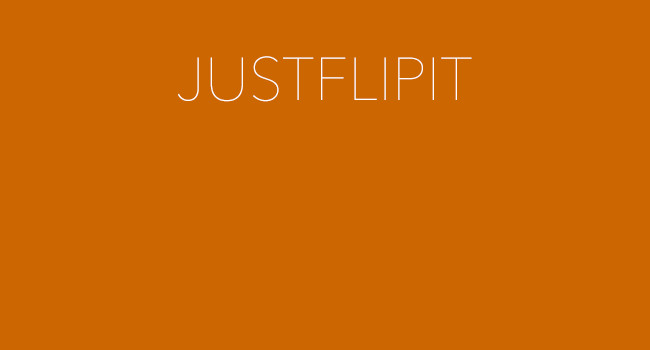
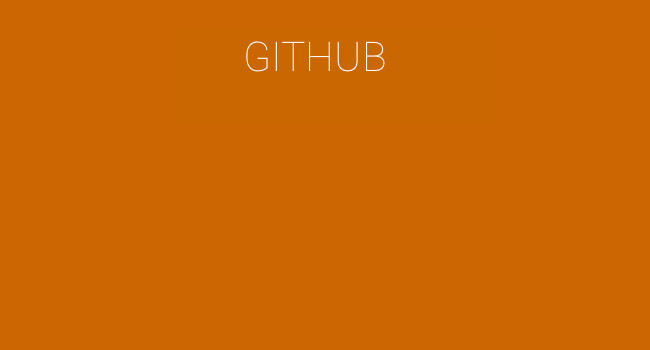
modified:index.html

Changed region(s): [[0.2769, 0.1143, 0.6769, 0.2857], [0.6769, 0.1429, 0.7385, 0.1714]]

diff --git a/index.html b/index.html
@@ -104,7 +104,8 @@
         <div class="row">
             <div class="col-lg-8 col-lg-offset-2 text-center">
                 <h2 class="section-heading">
-                    <a href="https://github.com/SimHub"> <i style="font-size: 2em;color: white" class="fa fa-github tech_icon"></i></a>
+                    <a href="https://github.com/SimHub"> <i style="font-size: 2em;color: white"
+                                                            class="fa fa-github tech_icon"></i></a>
 
                     <!--<img src="img/simon_avatar_o.png" alt="" width="150" class="img-circle">-->
                 </h2>
@@ -145,43 +146,43 @@
 
             <!--TREEHOUSE-->
             <!--<div class="col-lg-12 col-md-6 text-center">-->
-                <!--<div class="service-box">-->
-                    <!--<h3>Treehouse</h3>-->
-                    <!--<ol id="badgeTreehouse" style="list-style: none"></ol>-->
-                <!--</div>-->
+            <!--<div class="service-box">-->
+            <!--<h3>Treehouse</h3>-->
+            <!--<ol id="badgeTreehouse" style="list-style: none"></ol>-->
+            <!--</div>-->
             <!--</div>-->
 
             <div class="col-lg-3 col-md-6 text-center">
                 <div class="service-box">
                     <!--<i class="fa fa-4x fa-diamond wow bounceIn text-primary"></i>-->
-<!---->
+                    <!---->
                     <h3 class="wow bounceIn text-primary">JAVASCRIPT</h3>
-<!---->
+                    <!---->
                     <div class="skill-javascript"></div>
                 </div>
             </div>
             <div class="col-lg-3 col-md-6 text-center">
                 <div class="service-box">
                     <!--<i class="fa fa-4x fa-paper-plane wow bounceIn text-primary" data-wow-delay=".1s"></i>-->
-<!---->
+                    <!---->
                     <h3 class="wow bounceIn text-primary">ANGULAR</h3>
-<!---->
+                    <!---->
                     <!--<div class="badge">javascript</div>-->
                     <!--<br/>-->
-<!---->
+                    <!---->
                     <!--<br/>-->
                     <!--<div class="badge">nodejs</div>-->
-<!---->
-<!---->
+                    <!---->
+                    <!---->
                     <div class="skill-angular"></div>
                 </div>
             </div>
             <div class="col-lg-3 col-md-6 text-center">
                 <div class="service-box">
                     <!--<i class="fa fa-4x fa-newspaper-o wow bounceIn text-primary" data-wow-delay=".2s"></i>-->
-<!---->
+                    <!---->
                     <h3 class="wow bounceIn text-primary">PHP</h3>
-<!---->
+                    <!---->
                     <!--<div class="badge">php</div>-->
                     <div class="skill-php"></div>
                 </div>
@@ -189,9 +190,9 @@
             <div class="col-lg-3 col-md-6 text-center">
                 <div class="service-box">
                     <!--<i class="fa fa-4x fa-heart wow bounceIn text-primary" data-wow-delay=".3s"></i>-->
-<!---->
+                    <!---->
                     <h2 class="wow bounceIn text-primary">NodeJs</h2>
-<!---->
+                    <!---->
                     <div class="skill-nodejs"></div>
                 </div>
             </div>
@@ -213,23 +214,20 @@
     <div class="container-fluid">
         <div class="row no-gutter">
 
-            <!-- FLIPIT-->
+            <!-- GITHUB-->
             <div class="col-lg-4 col-sm-6">
-                <a href="http://simhub.github.io/justFlipIt/index.html"
+                <a href="https://github.com/SimHub"
                    class="portfolio-box">
-                    <img src="img/portfolio/justflipit.jpg" class="img-responsive" alt="justFlipit.js">
+                    <img src="img/portfolio/gitHub.jpg" class="img-responsive" alt="github">
 
                     <div class="portfolio-box-caption">
                         <div class="portfolio-box-caption-content">
-                            <div class="project-category text-faded">
-                                justFlipIt ist ein jQuery plugin ,
-                                mit dem Sie CSS3 basierend Flip Animationen auf alle DOM-Elemente implementieren können.
+                            <div class="project-category text-faded ">
                             </div>
-                            <div class="project-name">
-                                Tech <br>
-                                jQuery, Css3
+                            <div class="project-name" id="my_gitHub_repos">
+
+
                             </div>
-                            <i class="fa fa-github tech_icon"></i>
 
                         </div>
                     </div>
@@ -261,21 +259,21 @@
 
             <!--GOODWEATHER-->
             <!--<div class="col-lg-4 col-sm-6">-->
-                <!--<a href="GoodWeather/index.html" class="portfolio-box">-->
-                    <!--<img src="img/portfolio/goodweather.jpg" class="img-responsive" alt="">-->
-<!---->
-                    <!--<div class="portfolio-box-caption">-->
-                        <!--<div class="portfolio-box-caption-content">-->
-                            <!--<div class="project-category text-faded">-->
-                                <!--Open Weather App-->
-                            <!--</div>-->
-                            <!--<div class="project-name">-->
-                                <!--Tech <br>-->
-                                <!--JSON, jQuery, Css, Html5, materialize-->
-                            <!--</div>-->
-                        <!--</div>-->
-                    <!--</div>-->
-                <!--</a>-->
+            <!--<a href="GoodWeather/index.html" class="portfolio-box">-->
+            <!--<img src="img/portfolio/goodweather.jpg" class="img-responsive" alt="">-->
+            <!---->
+            <!--<div class="portfolio-box-caption">-->
+            <!--<div class="portfolio-box-caption-content">-->
+            <!--<div class="project-category text-faded">-->
+            <!--Open Weather App-->
+            <!--</div>-->
+            <!--<div class="project-name">-->
+            <!--Tech <br>-->
+            <!--JSON, jQuery, Css, Html5, materialize-->
+            <!--</div>-->
+            <!--</div>-->
+            <!--</div>-->
+            <!--</a>-->
             <!--</div>-->
 
             <!--Base64enconder-->
@@ -411,9 +409,8 @@
 <script src="js/scripts.min.js"></script>
 
 
-
 <script>
-//    $(function () {
+    $(function () {
 //        $.getJSON('https://teamtreehouse.com/simhub.json').
 //        done(function(data) {
 //            for(var item in data.badges) {
@@ -428,7 +425,36 @@
 
 //        });
 
-//    });
+
+        $.get('https://api.github.com/users/SimHub/repos', function (data) {
+//            for(var i= 0; i<data.length;i++){
+//                console.log(data[0].name);
+//                console.log(data[0].forks);
+            console.log(data[0].description);
+            $('#my_gitHub_repos').append(
+                '<div class="portfolio-box-caption">' +
+                '<div class="portfolio-box-caption-content">' +
+                '<div class="project-category text-faded">' +
+                '<h3>Repos</h3>' +
+                '  <i class="fa fa-github tech_icon"></i>' +
+
+                '<br>' +
+                '<p>' + data[5].name + '<br>'
+                + data[0].name + '<br>'
+                + data[3].name + '<br>' +
+                '</p>' +
+                '</div>' +
+                '<div class="project-name">' +
+                ' </div>' +
+                '<hr>' +
+                '<span>see more...</span>' +
+                '    </div>' +
+                '</div>'
+            )
+            ;
+
+        })
+    });
 
 </script>
 </body>
